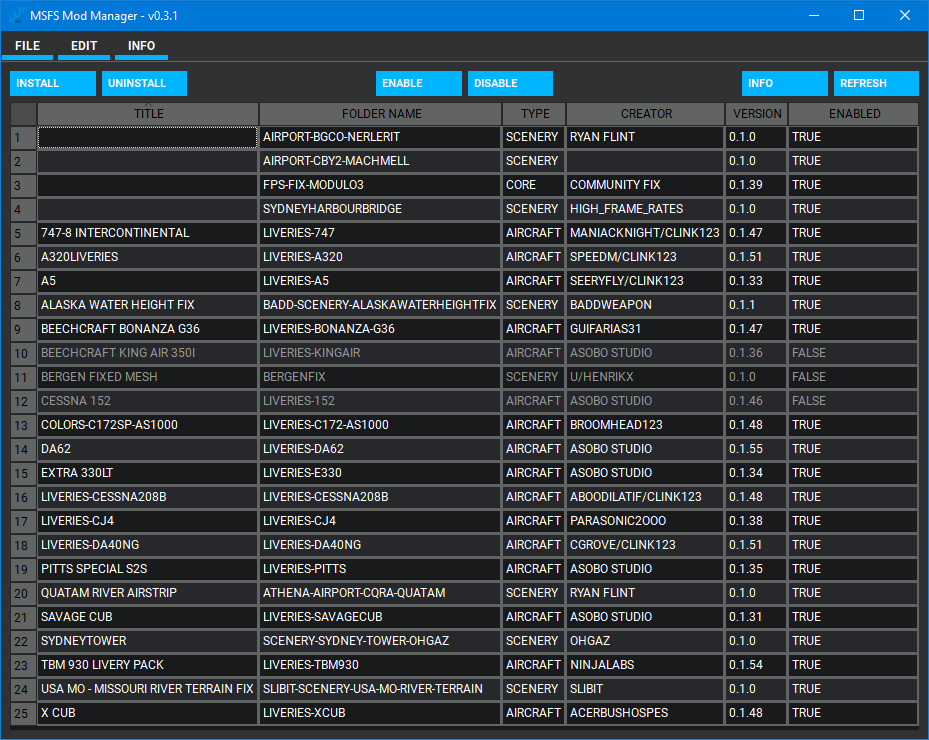
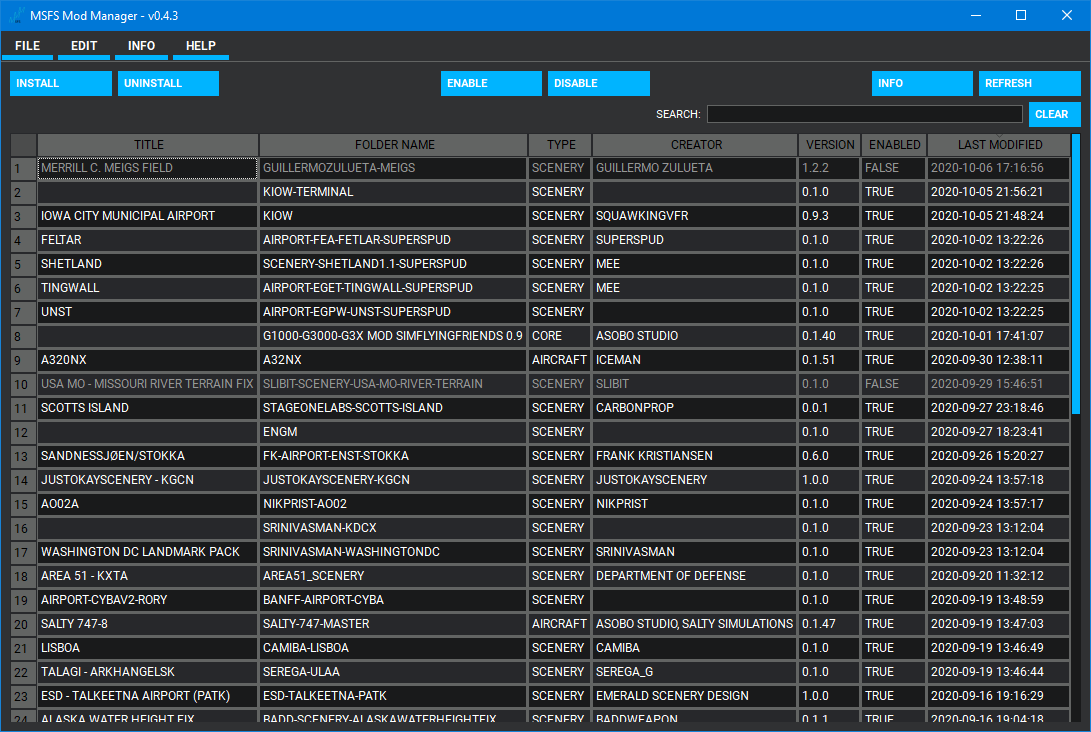
Update README

diff --git a/README.md b/README.md
@@ -1,3 +1,7 @@
+<center><img src="src/main/resources/base/icons/icon.png" alt="Bad Logo (I'm not good at graphic design)" width="200"/></center>
+
+# MSFS Mod Manager
+
 [![Black](https://img.shields.io/badge/code%20style-black-000000.svg)](https://github.com/psf/black)
 [![GitHub release (latest by date)](https://img.shields.io/github/v/release/nathanvaughn/msfs-mod-manager)](https://github.com/NathanVaughn/msfs-mod-manager/releases/latest)
 ![GitHub All Releases](https://img.shields.io/github/downloads/nathanvaughn/msfs-mod-manager/total)
@@ -5,13 +9,10 @@
 [![Codacy Badge](https://app.codacy.com/project/badge/Grade/01bf5870c736422fa4dab46200b56ed1)](https://www.codacy.com/manual/NathanVaughn/msfs-mod-manager?utm_source=github.com&amp;utm_medium=referral&amp;utm_content=NathanVaughn/msfs-mod-manager&amp;utm_campaign=Badge_Grade)
 [![GitHub license](https://img.shields.io/github/license/NathanVaughn/msfs-mod-manager)](https://github.com/NathanVaughn/msfs-mod-manager/blob/master/LICENSE)
 
-# MSFS Mod Manager
+This is an external mod manager for the new Microsoft Flight Simulator to help you install
+and manage 3rd party addons.
 
-<img src="src/main/resources/base/icons/icon.png" alt="Bad Logo (I'm not good at graphic design)" width="200"/>
-
-This is an external mod manager for the new Microsoft Flight Simulator.
-
-![Main Screen](screenshots/main-1.png)
+![Main Screen](screenshots/main.png)
 
 ## Features
 
@@ -67,9 +68,15 @@ View info about a mod and quickly open the directory it is located in.
 Easily create backups of all of your enabled mods, in case you need to reinstall
 your game.
 
+### Search
+
+Filter mods as you type to help you find what you're looking for.
+
 ### More To Come
 
 This is still under active development. Pull requests welcome!
+
+![Mod Searching Demo](screenshots/search.gif)
 
 ## Usage
 
